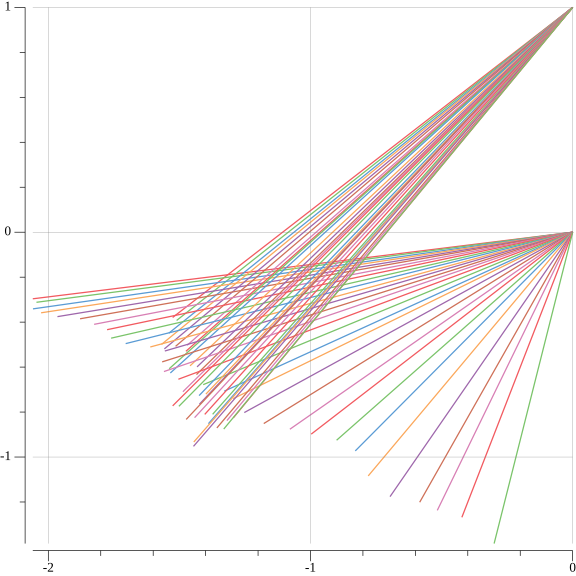
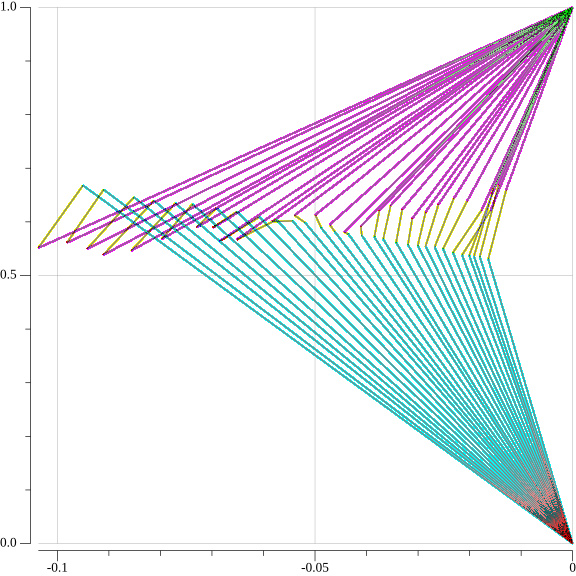
add before and after image

diff --git a/vtrack/regress.go b/vtrack/regress.go
@@ -2,13 +2,13 @@ package vtrack
 
 import (
 	"fmt"
+	"image/color"
 	"log"
 	"math"
 
 	"gonum.org/v1/gonum/mat"
 	"gonum.org/v1/plot"
 	"gonum.org/v1/plot/plotter"
-	"gonum.org/v1/plot/plotutil"
 	"gonum.org/v1/plot/vg"
 )
 
@@ -100,11 +100,11 @@ func (model *Model) BatchGradientDecent(dp, mu float64, ntrials int) {
 }
 
 func (model *Model) GetDiff(i int, dp float64) float64 {
-	cv := model.GetPointsDistance(model.params)
+	cv := model.GetPointsDistance(-0.1, model.params)
 	nparams := mat.NewVecDense(model.nparams, nil)
 	nparams.SetVec(i, dp)
 	nparams.AddVec(model.params, nparams)
-	nv := model.GetPointsDistance(nparams)
+	nv := model.GetPointsDistance(-0.1, nparams)
 	return (nv - cv) / dp
 }
 
@@ -171,10 +171,10 @@ func (model *Model) project(z0 float64, params *mat.VecDense) [][]float64 {
 	return ret
 }
 
-func (m Model) Plot2D(outDir, fileName string) {
-	data := m.project(-1, m.params)
+func (m Model) Plot2D(z0 float64, outDir, fileName string) {
+	data := m.project(z0, m.params)
 	p := plot.New()
-	for i, v := range data {
+	for _, v := range data {
 		ploti1, err := plotter.NewLine(plotter.XYs{
 			{X: 0, Y: 0},
 			{X: v[0], Y: v[1]},
@@ -182,7 +182,7 @@ func (m Model) Plot2D(outDir, fileName string) {
 		if err != nil {
 			panic(err)
 		}
-		ploti1.Color = plotutil.Color(i)
+		ploti1.Color = color.RGBA{255, 0, 0, 128}
 		p.Add(ploti1)
 
 		ploti2, err := plotter.NewLine(plotter.XYs{
@@ -192,8 +192,18 @@ func (m Model) Plot2D(outDir, fileName string) {
 		if err != nil {
 			panic(err)
 		}
-		ploti2.Color = plotutil.Color(i)
+		ploti2.Color = color.RGBA{0, 255, 0, 128}
 		p.Add(ploti2)
+
+		ploti3, err := plotter.NewLine(plotter.XYs{
+			{X: v[0], Y: v[1]},
+			{X: v[2], Y: v[3]},
+		})
+		if err != nil {
+			panic(err)
+		}
+		ploti3.Color = color.RGBA{0, 0, 255, 128}
+		p.Add(ploti3)
 	}
 
 	p.Add(plotter.NewGrid())
@@ -202,8 +212,8 @@ func (m Model) Plot2D(outDir, fileName string) {
 	}
 }
 
-func (model Model) GetPointsDistance(params *mat.VecDense) float64 {
-	points := model.project(-1, params)
+func (model Model) GetPointsDistance(z0 float64, params *mat.VecDense) float64 {
+	points := model.project(z0, params)
 	sum := .0
 	for _, p := range points {
 		x1, y1, x2, y2 := p[0], p[1], p[2], p[3]

diff --git a/main.go b/main.go
@@ -18,9 +18,10 @@ func main() {
 	ar1 := getAnnotationResults(objName1)
 	ar2 := getAnnotationResults(objName2)
 	model := vtrack.NewModel(ar1.At(0), ar2.At(10))
-	model.Plot2D(outDir, "before")
-	model.BatchGradientDecent(1e-2, 1e-1, 1000)
-	model.Plot2D(outDir, "after")
+	var z0 float64 = -0.1
+	model.Plot2D(z0, outDir, "before")
+	model.BatchGradientDecent(1e-2, 1e-1, 100000)
+	model.Plot2D(z0, outDir, "after")
 }
 
 func getAnnotationResults(objName string) vtrack.AnnotationResults {
